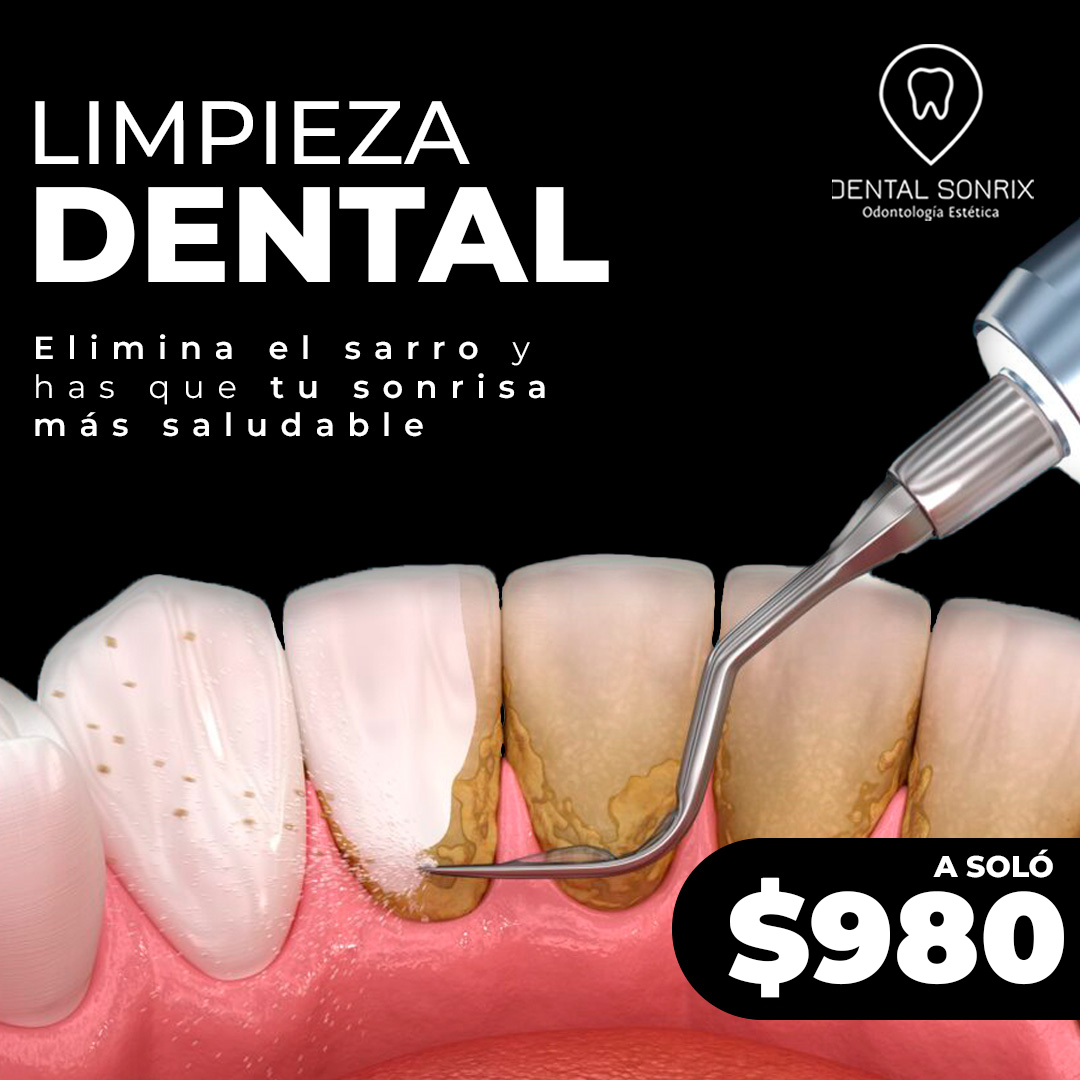
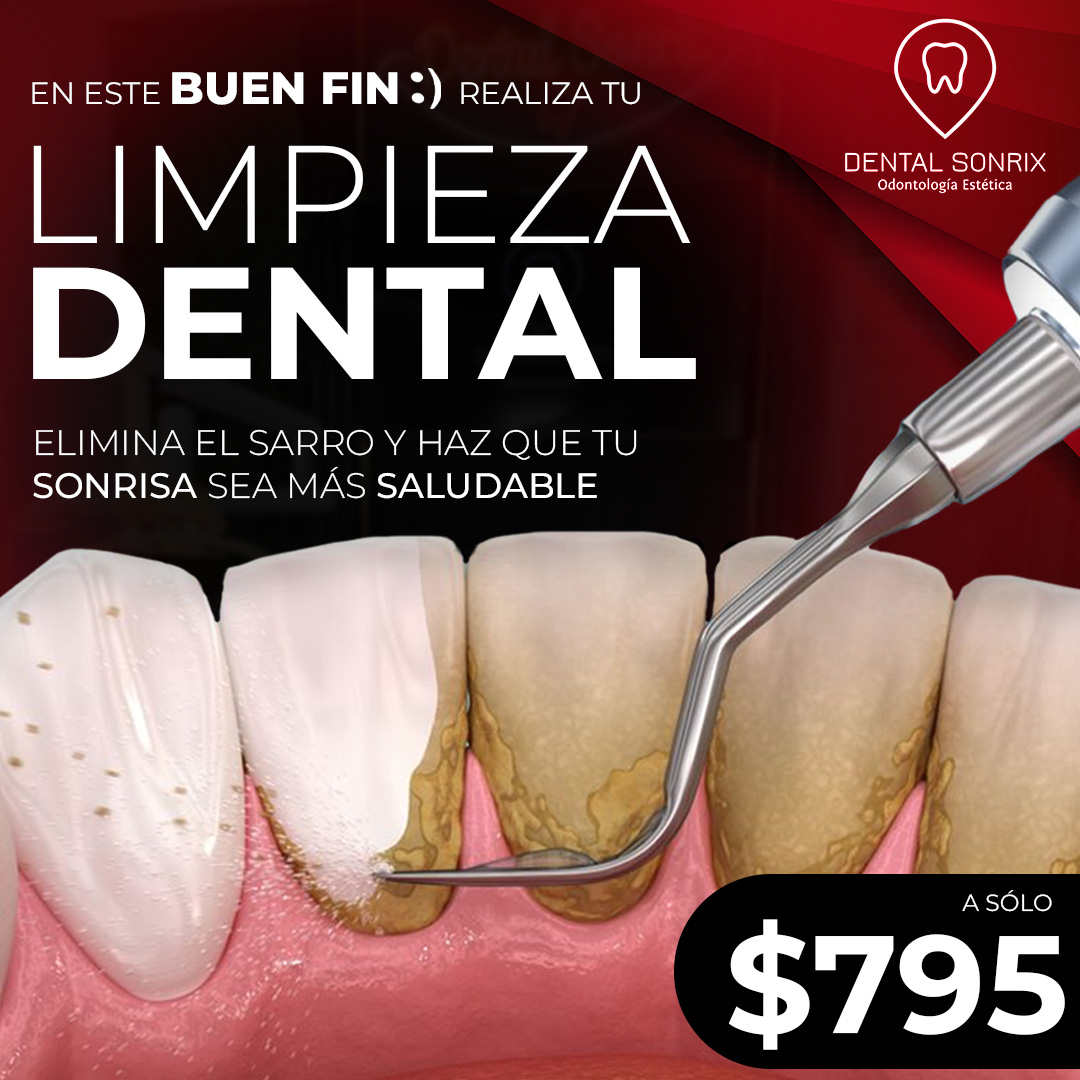
actualizar promociones buen fin

diff --git a/src/components/Promociones/Promocion.jsx b/src/components/Promociones/Promocion.jsx
@@ -1,6 +1,6 @@
 import Promo1 from "../../assets/promo-1.jpg";
 import Promo2 from "../../assets/promo-2.jpg";
-import Promo3 from "../../assets/promo-3.jpg";
+import Promo3 from "../../assets/promo-buen-fin-1.jpg";
 import Promo4 from "../../assets/promo-4.jpg";
 
 
@@ -12,6 +12,20 @@ export const Promocion = () => {
           Nuestras promociones
         </h2>
         <div className="container-promos w-[90%] m-auto grid gap-3 md:grid-cols-2 md:max-w-6xl">
+        <figure>
+            <img
+              src={Promo3}
+              alt=""
+              className="max-w-[100%] md:hover:scale-95 duration-500"
+            />
+          </figure>
+          <figure>
+            <img
+              src={Promo1}
+              alt=""
+              className="max-w-[100%] md:hover:scale-95 duration-500"
+            />
+          </figure>
           <figure>
             <img
               src={Promo4}
@@ -26,20 +40,7 @@ export const Promocion = () => {
               className="max-w-[100%] md:hover:scale-95 duration-500"
             />
           </figure>
-          <figure>
-            <img
-              src={Promo3}
-              alt=""
-              className="max-w-[100%] md:hover:scale-95 duration-500"
-            />
-          </figure>
-          <figure>
-            <img
-              src={Promo1}
-              alt=""
-              className="max-w-[100%] md:hover:scale-95 duration-500"
-            />
-          </figure>
+          
         </div>
       </section>
     </>
